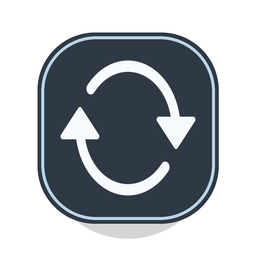
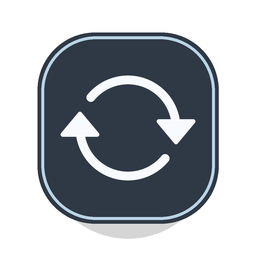
More UI cleanup -- making buttons a little bigger.

diff --git a/scripts/run_photo_display.py b/scripts/run_photo_display.py
@@ -211,8 +211,8 @@ class PhotoFrameApp(App):
         self.weather_controls = BoxLayout(
             orientation='horizontal',
             size_hint=(None, None),
-            size=(dp(124), dp(48)),
-            spacing=dp(8),
+            size=(dp(172), dp(72)),
+            spacing=dp(10),
             pos_hint={'center_y': 0.5}
         )
 
@@ -221,7 +221,7 @@ class PhotoFrameApp(App):
             background_down=sync_icon,
             border=(0, 0, 0, 0),
             size_hint=(None, None),
-            size=(dp(48), dp(48)),
+            size=(dp(72), dp(72)),
             opacity=1
         )
         self.refresh_button.bind(on_press=self.check_for_new_images)
@@ -231,7 +231,7 @@ class PhotoFrameApp(App):
             background_down=shutdown_icon,
             border=(0, 0, 0, 0),
             size_hint=(None, None),
-            size=(dp(48), dp(48)),
+            size=(dp(72), dp(72)),
             opacity=1
         )
         self.power_button.bind(on_press=self.power_off)
@@ -299,7 +299,7 @@ class PhotoFrameApp(App):
         is_portrait = Window.height >= Window.width
 
         if is_portrait:
-            panel_width = max(dp(380), min(dp(700), Window.width * 0.90))
+            panel_width = max(dp(420), min(dp(760), Window.width * 0.92))
             self.info_panel.pos_hint = {'center_x': 0.5, 'y': 0.03}
             self.info_panel.padding = (dp(22), dp(16), dp(22), dp(16))
             self.info_panel.spacing = dp(10)
@@ -308,14 +308,14 @@ class PhotoFrameApp(App):
             self.weather_label.font_size = '30sp'
             self.clock_label.height = dp(92)
             self.date_label.height = dp(38)
-            self.weather_row.height = dp(70)
-            self.weather_label.height = dp(70)
-            self.weather_icon.size = (dp(44), dp(44))
-            self.weather_controls.size = (dp(140), dp(56))
-            self.refresh_button.size = (dp(56), dp(56))
-            self.power_button.size = (dp(56), dp(56))
+            self.weather_row.height = dp(92)
+            self.weather_label.height = dp(92)
+            self.weather_icon.size = (dp(48), dp(48))
+            self.weather_controls.size = (dp(196), dp(84))
+            self.refresh_button.size = (dp(84), dp(84))
+            self.power_button.size = (dp(84), dp(84))
         else:
-            panel_width = max(dp(300), min(dp(500), Window.width * 0.60))
+            panel_width = max(dp(340), min(dp(560), Window.width * 0.66))
             self.info_panel.pos_hint = {'x': 0.04, 'y': 0.02}
             self.info_panel.padding = (dp(18), dp(14), dp(18), dp(14))
             self.info_panel.spacing = dp(6)
@@ -324,12 +324,12 @@ class PhotoFrameApp(App):
             self.weather_label.font_size = '26sp'
             self.clock_label.height = dp(74)
             self.date_label.height = dp(32)
-            self.weather_row.height = dp(56)
-            self.weather_label.height = dp(56)
-            self.weather_icon.size = (dp(38), dp(38))
-            self.weather_controls.size = (dp(124), dp(48))
-            self.refresh_button.size = (dp(48), dp(48))
-            self.power_button.size = (dp(48), dp(48))
+            self.weather_row.height = dp(80)
+            self.weather_label.height = dp(80)
+            self.weather_icon.size = (dp(42), dp(42))
+            self.weather_controls.size = (dp(172), dp(72))
+            self.refresh_button.size = (dp(72), dp(72))
+            self.power_button.size = (dp(72), dp(72))
 
         # Keep vertical breathing room symmetric by sizing the panel from its
         # row heights, spacing, and explicit top/bottom padding.
